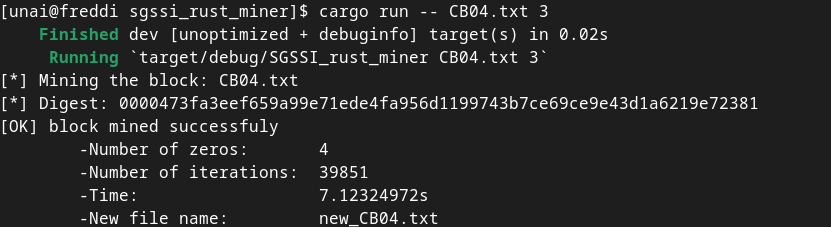
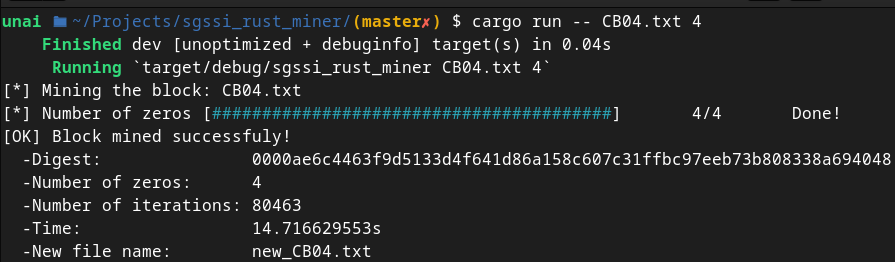
Output format updated
Update readme

asdfasdf

diff --git a/src/main.rs b/src/main.rs
@@ -116,12 +116,12 @@ fn main() {
 
 
     let end = start.elapsed();
-    println!("[*] Digest: {}", dig);
-    println!("[OK] block mined successfuly");
-    println!("\t-Number of zeros:       {}", count);
-    println!("\t-Number of iterations:  {}", iter);
-    println!("\t-Time:                  {:?}", end);
-    println!("\t-New file name:         {}", new_file);
+    println!("[OK] Block mined successfuly!");
+    println!("  -Digest:               {}", dig);
+    println!("  -Number of zeros:      {}", count);
+    println!("  -Number of iterations: {}", iter);
+    println!("  -Time:                 {:?}", end);
+    println!("  -New file name:        {}", new_file);
 
 
 }

diff --git a/README.md b/README.md
@@ -38,6 +38,6 @@ De esta manera se eliminan todos los archivos no necesarios, generados al compil
 
 ## Integridad de los archivos
 
-**Cargo.toml:** 90a99203b1edd2eb1a2fe5795e9d1d7691ad448601f4f9d7a125b1199a53a3f7
+**Cargo.toml:** 1df36f3b30540dc1064b0846e50eadb6108b8aaf13dce8a5c6b8d81415ebd128 
 
-**main.rs:** 04360f977832fe32cce9b990a27c0c0a775af60afa0ca8ff04271a299197ea16
+**main.rs:** ba3ac7cf6099b6597a86c4677560dceba0c0c9560500bf4ea8639a216117af13 
